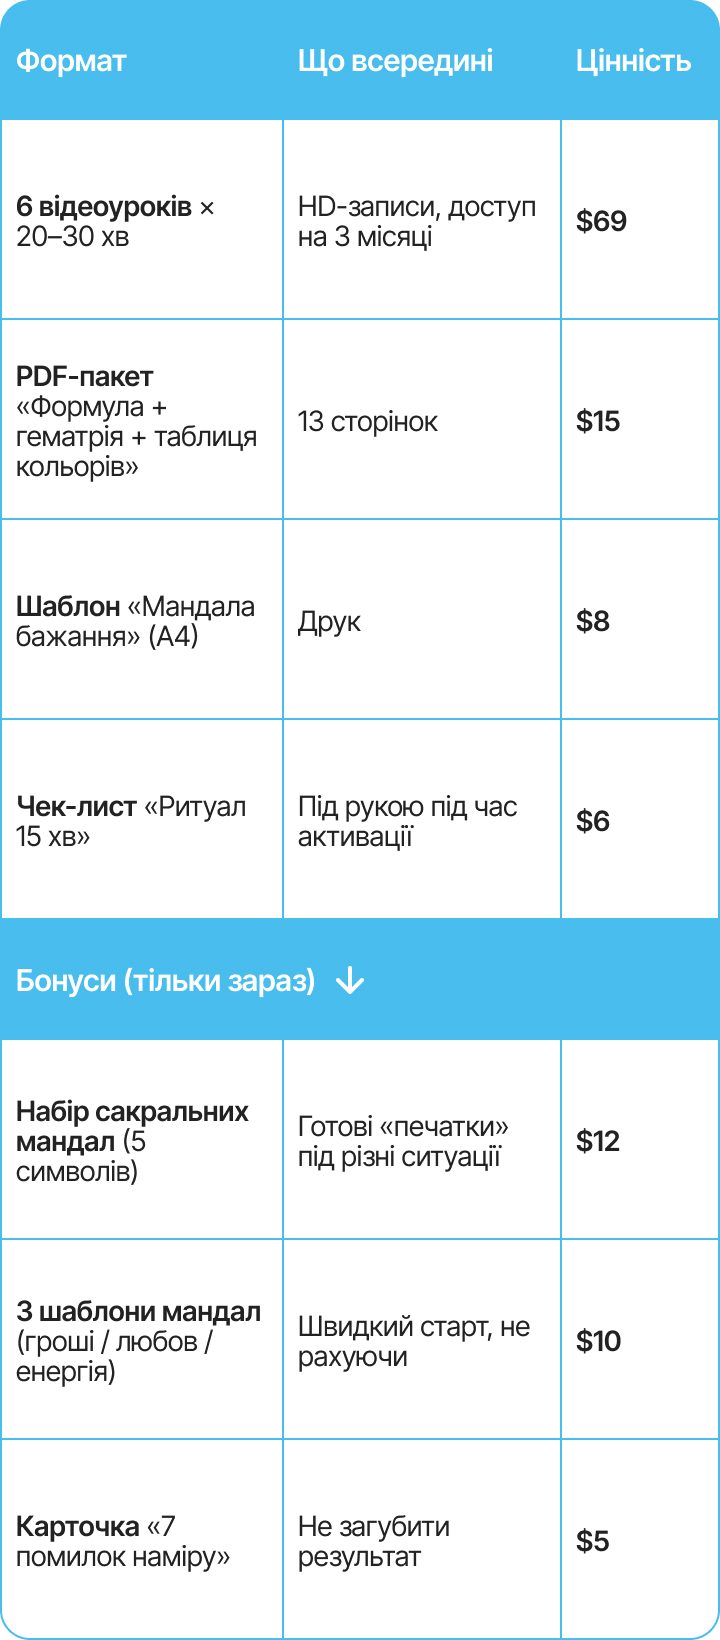
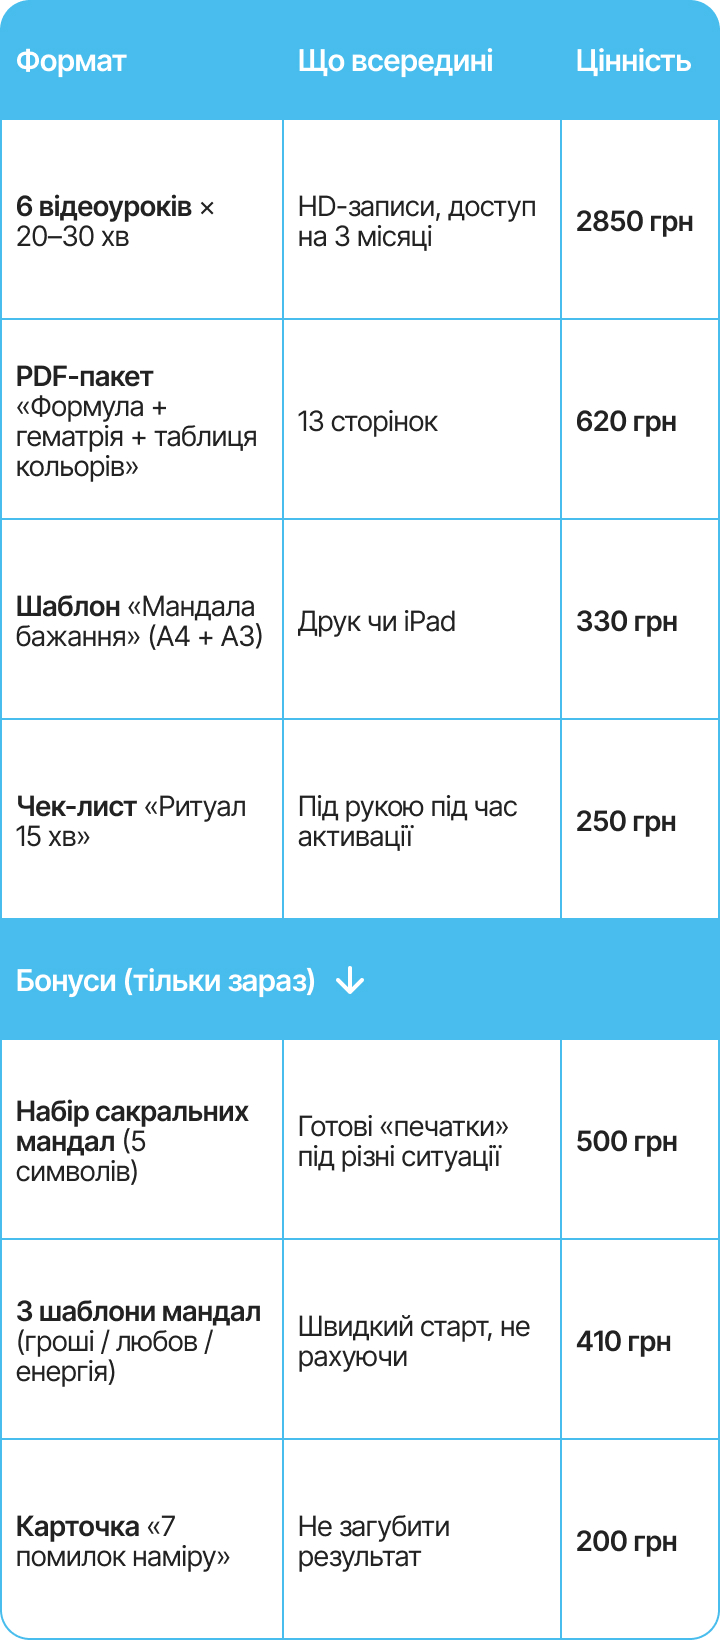
upd

diff --git a/index.html b/index.html
@@ -194,11 +194,11 @@
           <div class="prices-wrapper">
             <div class="old-price">
               <p class="price-title">Стара ціна</p>
-              <p class="price">$125</p>
+              <p class="price">5160грн</p>
             </div>
             <div class="new-price">
               <p class="price-title">Сьогодні</p>
-              <p class="price">$9</p>
+              <p class="price">360грн</p>
               <div class="btn-star-container">
                 <picture
                   ><source
@@ -447,7 +447,7 @@
             Читати далі
           </button>
           <!-- <a class="btn-link-container green" href="">
-            <p class="btn-link">Приєднатись — $9</p>
+            <p class="btn-link">Приєднатись — 360грн</p>
             <div class="btn-star-container">
               <picture
                 ><source
@@ -475,7 +475,7 @@
             class="btn-link-container green"
             data-modal-open="modal1"
           >
-            <p class="btn-link">Приєднатись — $9</p>
+            <p class="btn-link">Приєднатись — 360грн</p>
             <div class="btn-star-container">
               <picture
                 ><source
@@ -522,11 +522,11 @@
           <div class="prices-wrapper">
             <div class="old-price">
               <p class="price-title">Стара ціна</p>
-              <p class="price">$125</p>
+              <p class="price">5160грн</p>
             </div>
             <div class="new-price">
               <p class="price-title">Сьогодні</p>
-              <p class="price">$9</p>
+              <p class="price">360грн</p>
               <div class="btn-star-container">
                 <picture
                   ><source
@@ -646,7 +646,7 @@
             </li>
           </ul>
           <!-- <a class="btn-link-container green" href="">
-            <p class="btn-link">Приєднатись — $9</p>
+            <p class="btn-link">Приєднатись — 360грн</p>
             <div class="btn-star-container">
               <picture
                 ><source
@@ -674,7 +674,7 @@
             class="btn-link-container green"
             data-modal-open="modal1"
           >
-            <p class="btn-link">Приєднатись — $9</p>
+            <p class="btn-link">Приєднатись до курсу</p>
             <div class="btn-star-container">
               <picture
                 ><source
@@ -853,7 +853,7 @@
               папір, 9 кольорових олівців чи фломастерів, 20 хв тиші на день
             </p>
             <!-- <a class="btn-link-container green" href="">
-              <p class="btn-link">Приєднатись — $9</p>
+              <p class="btn-link">Приєднатись — 360грн</p>
               <div class="btn-star-container">
                 <picture
                   ><source
@@ -881,7 +881,7 @@
               class="btn-link-container green"
               data-modal-open="modal1"
             >
-              <p class="btn-link">Приєднатись — $9</p>
+              <p class="btn-link">Приєднатись — 360грн</p>
               <div class="btn-star-container">
                 <picture
                   ><source
@@ -1215,11 +1215,11 @@
           <div class="prices-wrapper last">
             <div class="old-price">
               <p class="price-title">Стара ціна</p>
-              <p class="price">$125</p>
+              <p class="price">5160грн</p>
             </div>
             <div class="new-price">
               <p class="price-title">Сьогодні</p>
-              <p class="price">$9</p>
+              <p class="price">360грн</p>
               <div class="btn-star-container">
                 <picture
                   ><source

diff --git a/src/css/styles.css b/src/css/styles.css
@@ -220,7 +220,7 @@
   width: 80px;
   height: 80px;
 
-  right: -40px;
+  right: -50px;
   top: -14px;
 }
 
@@ -856,6 +856,8 @@
 
 .you-get .table-image {
   margin-bottom: 40px;
+  border-radius: 15px;
+  overflow: hidden;
 }
 
 .get-btn {
